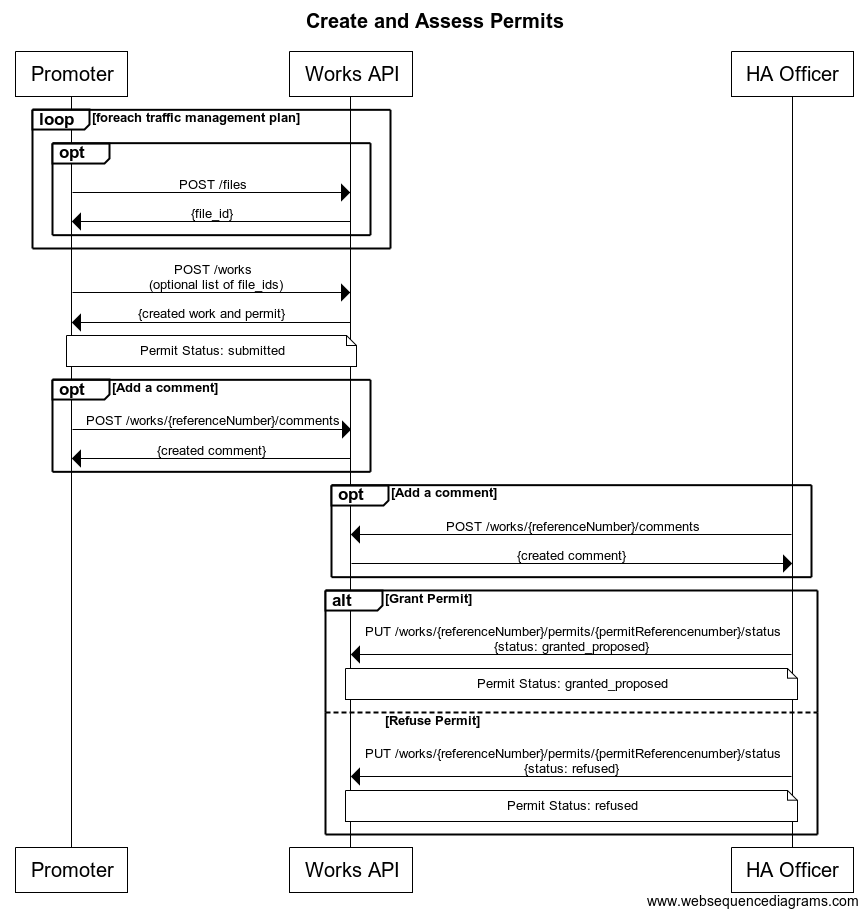
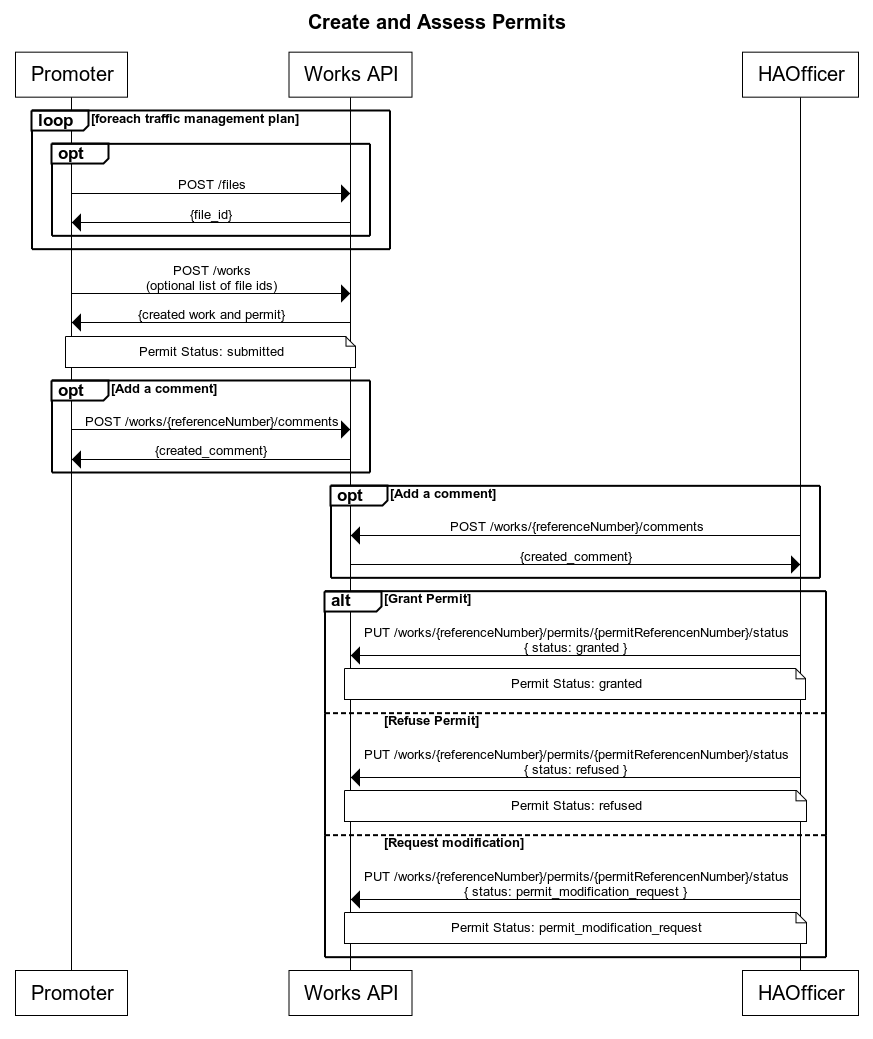
Update sequence diagrams and more documentation

Changed region(s): [[0.0311, 0.0, 0.9965, 1.0], [0.0, 0.916, 0.1557, 0.9771]]

diff --git a/docs/api-documentation/V1.11/index.md b/docs/api-documentation/V1.11/index.md
@@ -670,7 +670,7 @@ The table below shows the current permissions per endpoint.
       <td class="govuk-table__cell">Required</td>
     </tr>
     <tr class="govuk-table__row">
-      <td class="govuk-table__cell"><code>POST /works/{referenceNumber}/sites/{siteId}/reinstatements</code></td>
+      <td class="govuk-table__cell"><code>POST /works/{referenceNumber}/sites/{siteNumber}/reinstatements</code></td>
       <td class="govuk-table__cell">Planner &amp; Contractor</td>
       <td class="govuk-table__cell">Required</td>
     </tr>
@@ -858,6 +858,11 @@ The table below shows the current permissions per endpoint.
       <td class="govuk-table__cell">DataExport</td>
       <td class="govuk-table__cell">Not Required</td>
     </tr>
+    <tr class="govuk-table__row">
+      <td class="govuk-table__cell"><code>POST /fixed-penalty-notices/csv</code></td>
+      <td class="govuk-table__cell">Planner, Contractor &amp; HAOfficer</td>
+      <td class="govuk-table__cell">Not Required</td>
+    </tr>
   </tbody>
 </table>
 
@@ -1007,7 +1012,7 @@ Whilst the above focuses much on data manipulation via the Work API, here is an 
 
 <ol class="govuk-list govuk-list--bullet">
   <li><strong>Permits awaiting assessment</strong>: <code>GET /permits?status=submitted</code></li>
-  <li><strong>Expiring interim reinstatements</strong>: <code>GET /sites?status=interim</code></li>
+  <li><strong>Expiring interim reinstatements</strong>: <code>GET /reinstatements?status=interim</code></li>
   <li><strong>Disputed FPNs</strong>: <code>GET /fixed-penalty-notices?status=disputed</code></li>
 </ol>
 
@@ -1039,7 +1044,7 @@ The statuses of a permit are:
 <ol class="govuk-list govuk-list--bullet">
   <li><strong>submitted</strong>: The permit is awaiting assessment</li>
   <li><strong>granted</strong>: The permit has deemed or has been assessed as granted by an HA</li>
-  <li><strong>permit_modification_request (available in public beta)</strong>: The permit has been assessed as a permit modification request by an HA, it can still be subsequently assessed as granted/refused by an HA.</li>
+  <li><strong>permit_modification_request</strong>: The permit has been assessed as a permit modification request by an HA, it can still be subsequently assessed as granted/refused by an HA.</li>
   <li><strong>refused</strong>: The permit has been assessed as refused by an HA</li>
   <li><strong>closed</strong>: The permit has been stopped by the promoter</li>
   <li><strong>cancelled</strong>: The permit has been cancelled by the promoter</li>
@@ -1146,7 +1151,7 @@ In order to carry out much of the actions against a work record the associated p
 
 ![permit create and assess diagram](images/create-and-assess-permits.png)
 
-#### Permit modification requests (Available in public beta)
+#### Permit modification requests
 {: .govuk-heading-s}
 
 HA Officers will have the option to assess permit applications as a `permit_modification_request`. This means the work can not be started until the HA makes a final assessment, i.e. `granted` or `refused`. They can do this at any time, but the promoter will have the option to submit permit alterations in order to address the changes the HA has asked for.
@@ -1188,7 +1193,7 @@ HA Officers will have the option to assess permit applications as a `permit_modi
     </p>
   </li>
 </ol>
-![permit modification request diagram](images/permit_modification_request.png)
+![permit modification request diagram](images/permit-modification-request.png)
 
 
 ### Inspections
@@ -1313,7 +1318,25 @@ followed:
 ### Sites and reinstatements
 {: .govuk-heading-m}
 
-In order to create a reinstatement the following steps should be followed:
+Reinstatements can be created as part of a non-notifiable work record or a planned work record. Reinstatement and sites have the following types:
+{: .govuk-body}
+
+<ol class="govuk-list govuk-list--bullet">
+  <li>
+    excavation
+  </li>
+  <li>
+    bar_holes
+  </li>
+  <li>
+    core_holes
+  </li>
+  <li>
+    pole_testing
+  </li>
+</ol>
+
+The type is only specified when creating a site, any reinstatements created an against existing site will inherit the type from the site they are created against. Excavation sites can only be created for work records which have an active permit which is in-progress or complete and where excavation is set to true in the permit application. A typical flow is as follows: 
 {: .govuk-body}
 
 <ol class="govuk-list govuk-list--bullet">
@@ -1321,7 +1344,7 @@ In order to create a reinstatement the following steps should be followed:
     <strong>Create a work record (Planner)</strong>: <code>POST /works</code>
     <p>
       Initially a promoter will create a work, which will, in turn, create a
-      permit application.
+      permit application. Excavation will be true when promoter wishes to raise excavation sites
     </p>
   </li>
   <li>
@@ -1345,7 +1368,7 @@ In order to create a reinstatement the following steps should be followed:
       be created.
     </p>
     <p>
-      Once a site is recorded against a work a reinstatement can be optionally added to the site using <code>POST /works/{workReferenceNumber}/sites/{siteId}/reinstatements</code>
+      Once a site is recorded against a work a reinstatement of the same type can be optionally added to the site using <code>POST /works/{workReferenceNumber}/sites/{siteNumber}/reinstatements</code>
     </p>
     <p>
       Once a site/reinstatement is recorded against a work it cannot be updated.
@@ -1539,7 +1562,7 @@ The next response would contain rows 26-50.
 The various resources queryable through the reporting API are only for the currently authenticated user's organisation or associated organisation as a contractor.
 {: .govuk-body}
 
-#### CSV
+#### CSV Endpoints (Deprecated V1.11. To be removed V1.12)
 {: .govuk-heading-s}
 
 Some of the resource endpoints on reporting API also include `/csv`. This will return all the results with the specified criteria in a CSV format.
@@ -1860,10 +1883,10 @@ Once a permit is in progress, and an excavation site has been added to the work,
 #### Reinstatements (Promoter)
 {: .govuk-heading-s}
 
-As shown in the sequencing section, once a work has been started by the promoter and an excavation was carried out, then a promoter can add reinstatements and sites. A promoter can continue to create and view these even after the work has been stopped and completed, as they made need to do this retrospectively.
+As shown in the sequencing section, once a work has been started by the promoter then a promoter can add reinstatements and sites. A promoter can continue to create and view these even after the work has been stopped and completed, as they may need to do this retrospectively.
 {: .govuk-body}
 
-In a similar vein to the relationship between a works and a permit, it's important to clarify the technical relationship between a site and a reinstatement. When creating a reinstatement for the first time, this will in effect create a site record. A site can have multiple reinstatement. You can create a site and a reinstatement at the same time, or you can create a reinstatement against an existing site. A site cannot exist without a reinstatement.
+In a similar vein to the relationship between a works and a permit, it's important to clarify the technical relationship between a site and a reinstatement. When creating a reinstatement for the first time, this will in effect create a site record. A site can have multiple reinstatement. You can create a site and a reinstatement at the same time, or you can create a reinstatement against an existing site. A site cannot exist without a reinstatement. All reinstatements belonging to a site will be of the same type e.g. excavation
 {: .govuk-body}
 
 A site is a representation of all the reinstatements carried out at a particular location but the most recently added reinstatement reflects the sites properties.
@@ -1880,15 +1903,15 @@ This endpoint takes all the information required to create a reinstatement, a su
 #### Get site endpoint
 {: .govuk-heading-s}
 
-<code>GET /works/{work reference number}/sites/{site id}</code>
+<code>GET /works/{work reference number}/sites/{site number}</code>
 
-Once a site has been created it can be retrieved using the GET endpoint, passing the site id which is returned as part of the create request.
+Once a site has been created it can be retrieved using the GET endpoint, passing the site number which is returned as part of the create request.
 {: .govuk-body}
 
 #### Create reinstatement endpoint
 {: .govuk-heading-s}
 
-<code>POST /works/{work reference number}/sites/{site id}/reinstatements</code>
+<code>POST /works/{work reference number}/sites/{site number}/reinstatements</code>
 
 A site can have multiple reinstatements associated with it so it is possible to add a new reinstatement to an existing site. This endpoint requires all of the same fields as the create site request.
 {: .govuk-body}
@@ -2016,7 +2039,7 @@ Audit events in the history response will include an object_reference. Where fur
   <li><strong>HA granting a permit applicaiton</strong>: Permit Reference Number</li>
   <li><strong>Permit application deeming</strong>: Permit Reference Number</li>
   <li><strong>Requesting a change</strong>: Change Request Reference Number</li>
-  <li><strong>Creating a site or reinstatement</strong>: Site ID</li>
+  <li><strong>Creating a site or reinstatement</strong>: Site Number</li>
   <li><strong>Raising a FPN</strong>: FPN Reference Number</li>
   <li><strong>Adding or removing a File to a work record</strong>: File ID</li>
   <li><strong>Updating on site details of a work</strong>: Permit Reference Number</li>
@@ -2028,12 +2051,15 @@ As well as viewing comments on a work record level, you can also call the report
 #### Permit Alterations
 {: .govuk-heading-s}
 
-Permit alterations allows promoters and HA users the ability to alter a permit once it's been created. Not all properties of a permit are changeable and thus depending on what's been changed and by who, there are currently 5 types of permit alterations:
+Permit alterations allows promoters and HA users the ability to alter a permit once it's been created. Not all properties of a permit are changeable and thus depending on what's been changed and by who, the type of permit alterations are:
 {: .govuk-body}
 
 <ol class="govuk-list govuk-list--bullet">
   <li>
-    <strong>Promoter change request:</strong> Promoter submitted alteration after permit is granted or in-progress
+    <strong>Promoter change request:</strong> Promoter submitted alteration after permit has been granted or in-progress
+  </li>
+  <li>
+    <strong>Promoter imposed change:</strong> Promoter submitted alteration before permit has been granted or in response to a permit modification request.
   </li>
   <li>
     <strong>Work extension:</strong> Promoter submitted proposed end date alteration to in-progress work
@@ -2192,6 +2218,14 @@ This endpoint takes min and max easting and northing values to select all activi
 <code>GET /forward-plans</code>
 
 This endpoint takes min and max easting and northing values to select all raised forward plans within a bounding box. The forward plans selected can be optionally filtered using the start and end date params.
+{: .govuk-body}
+
+#### Get HS2 Act Limits endpoint
+{: .govuk-heading-s}
+
+<code>GET /hs2-act-limits</code>
+
+This endpoint takes min and max easting and northing values to select all HS2 act limits within a bounding box. 
 {: .govuk-body}
 
 ### Street Lookup API
@@ -2453,13 +2487,15 @@ Work API will be updated with the following changes:
 	<li>Existing <code>POST /works</code>, <code>POST /permits</code> and <code>POST /permit-alterations</code> requests updated to make <code>special_desig_location_text</code> field optional</li>
 </ol>
 
-Lookup API will be updated with the following changes: {: .govuk-body}
+Lookup API will be updated with the following changes:
+{: .govuk-body}
 <ol class="govuk-list govuk-list--bullet">
 	<li>BREAKING CHANGE: <code>street_line</code> and <code>street_centre_point</code> on <code>GET /nsg/streets/{usrn}</code> response will be returned as GeoJSON object rather than string</li>
 	<li>BREAKING CHANGE: <code>GET /nsg/streets/{usrn}</code> response updated to make <code>special_desig_location_text</code> field optional</li>
 </ol>
 
-Party API will be updated with the following changes: {: .govuk-body}
+Party API will be updated with the following changes:
+{: .govuk-body}
 <ol class="govuk-list govuk-list--bullet">
 	<li>New <code>GET /organisations</code> endpoint to allow retrieval of organisations</li>
 </ol>
@@ -2467,7 +2503,14 @@ Party API will be updated with the following changes: {: .govuk-body}
 Reporting API updated with the following changes:
 {: .govuk-body}
 <ol class="govuk-list govuk-list--bullet">
+  <li>DEPRECATION: All CSV export endpoints i.e. endpoints ending in <code>/csv</code> are now deprecated and will be removed in version 1.12</li>
   <li>BREAKING CHANGE: <code>site_id</code> response field has been removed from <code>ReinstatementSummaryResponse</code> and replaced with <code>site_number</code>.</li>
+</ol>
+
+Data Export API updated with the following changes:
+{: .govuk-body}
+<ol class="govuk-list govuk-list--bullet">
+  <li><code>POST /fixed-penalty-notices/csv</code> endpoint added to trigger generation of FPN CSV file which will be exportable in a later version</li>
 </ol>
 
 Version 1.10 (28/11/2019):
